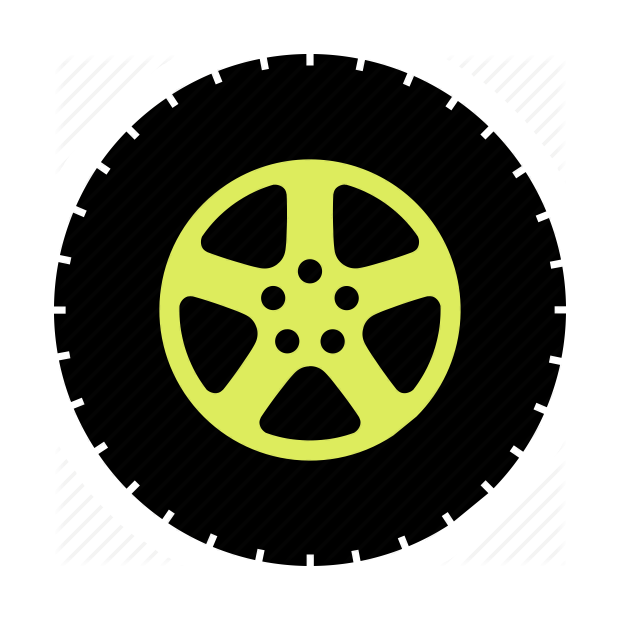
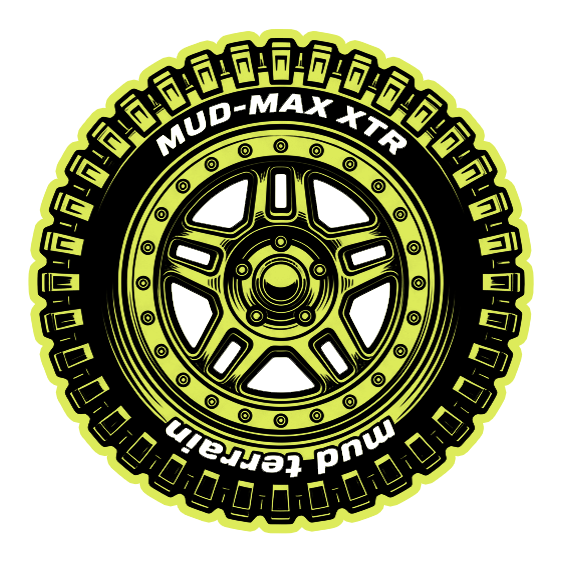
pequenos ajustes visuais antes de alterar a logica do mapa

diff --git a/src/pages/components/Icones.jsx b/src/pages/components/Icones.jsx
@@ -51,11 +51,11 @@ export const iconeNumero = (number, color = 'var(--destaque1)') => {
                 color: white;
                 font-weight: bold;
                 font-size: 12px;
-                border: 4px solid white;
+                border: 2px solid white;
                 box-shadow: 0 1px 3px rgba(0,0,0,0.3);
             ">${number}</div>`,
         iconSize: [28, 28],
-        iconAnchor: [18, 18],
+        iconAnchor: [9, 9],
         popupAnchor: [0, -14]
     });
 };